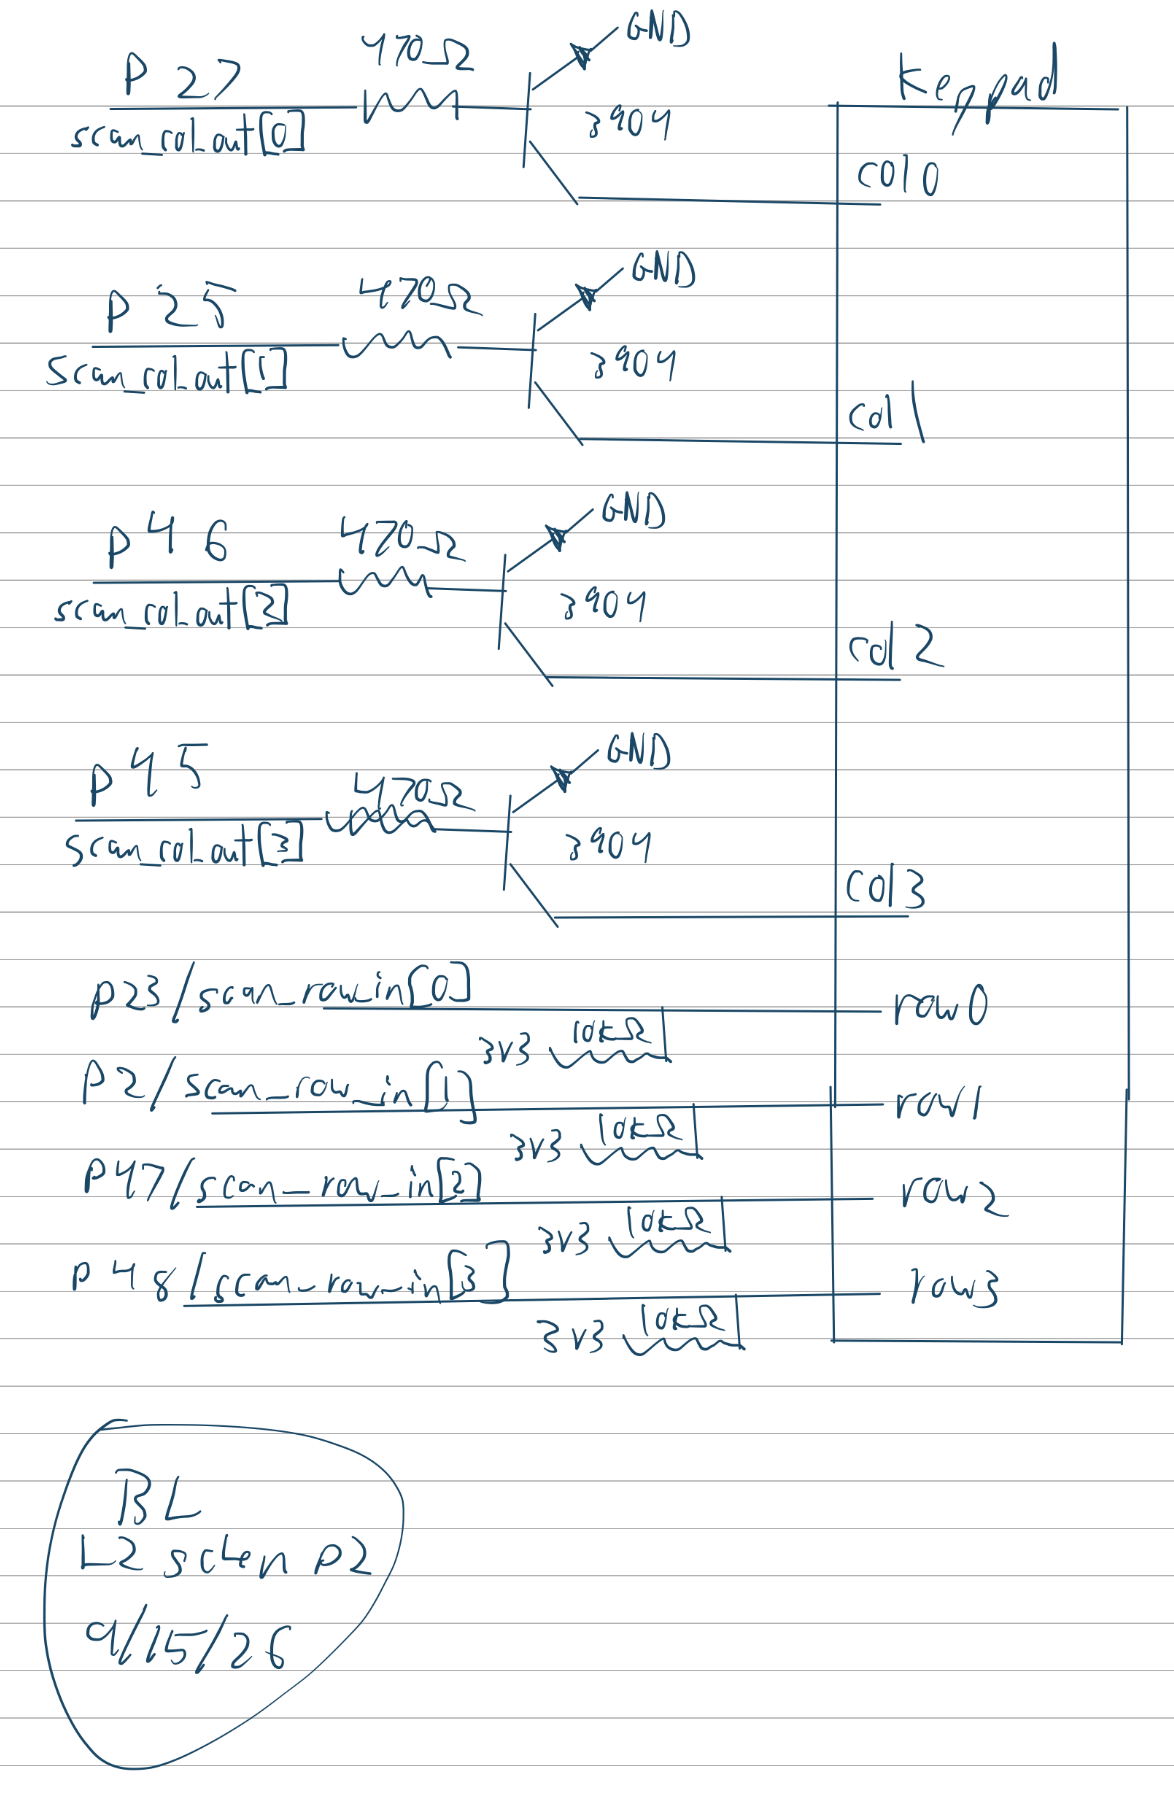
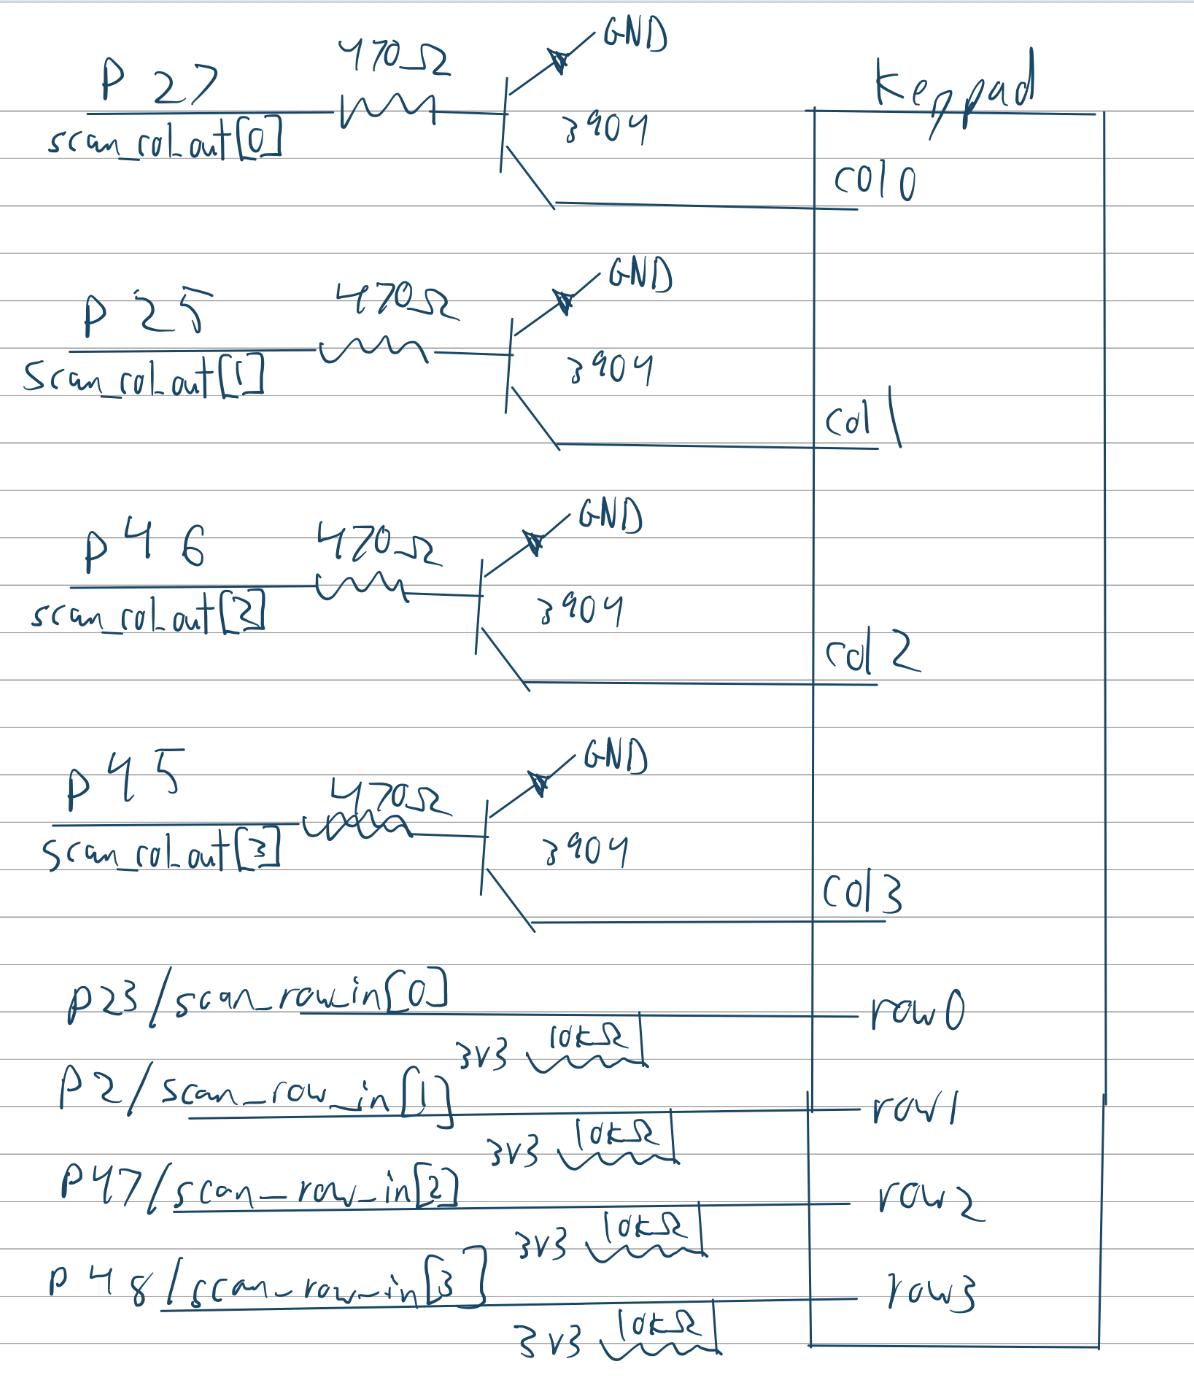
Built site for gh-pages

Changed region(s): [[0.0, 0.0, 1.0, 0.9964]]

diff --git a/labs/lab2/lab2.html b/labs/lab2/lab2.html
@@ -262,18 +262,7 @@ window.Quarto = {
 </div>
 <div id="callout-2" class="callout-2-contents callout-collapse collapse">
 <div class="callout-body-container callout-body">
-<div class="quarto-figure quarto-figure-center">
-<figure class="figure">
-<p><img src="images/schem1.png" class="img-fluid figure-img"></p>
-<figcaption>Figure 2: Schematic of the physical circuit for the displays and external switches</figcaption>
-</figure>
-</div>
-<div class="quarto-figure quarto-figure-center">
-<figure class="figure">
-<p><img src="images/schem.png" class="img-fluid figure-img"></p>
-<figcaption>Figure 3: Schematic of the physical circuit for the keypad</figcaption>
-</figure>
-</div>
+<p><img src="images/schem1.png" class="img-fluid" alt="Figure 2: Schematic of the physical circuit for the displays and external switches"> <img src="images/schem.png" class="img-fluid" alt="Figure 3: Schematic of the physical circuit for the keypad"></p>
 </div>
 </div>
 </div>

diff --git a/labs.html b/labs.html
@@ -209,7 +209,7 @@ window.Quarto = {
 
 <div class="quarto-listing quarto-listing-container-default" id="listing-listing">
 <div class="list quarto-listing-default">
-<div class="quarto-post image-right" data-index="0" data-listing-date-sort="1789455600000" data-listing-file-modified-sort="1789547388887" data-listing-date-modified-sort="NaN" data-listing-reading-time-sort="11" data-listing-word-count-sort="2170">
+<div class="quarto-post image-right" data-index="0" data-listing-date-sort="1789455600000" data-listing-file-modified-sort="1789597582560" data-listing-date-modified-sort="NaN" data-listing-reading-time-sort="11" data-listing-word-count-sort="2170">
 <div class="thumbnail"><a href="./labs/lab2/lab2.html" class="no-external">
 
 <p class="card-img-top"><img loading='lazy' src="labs\lab2\images\assembled.jpg"  class="thumbnail-image card-img"/></p>
